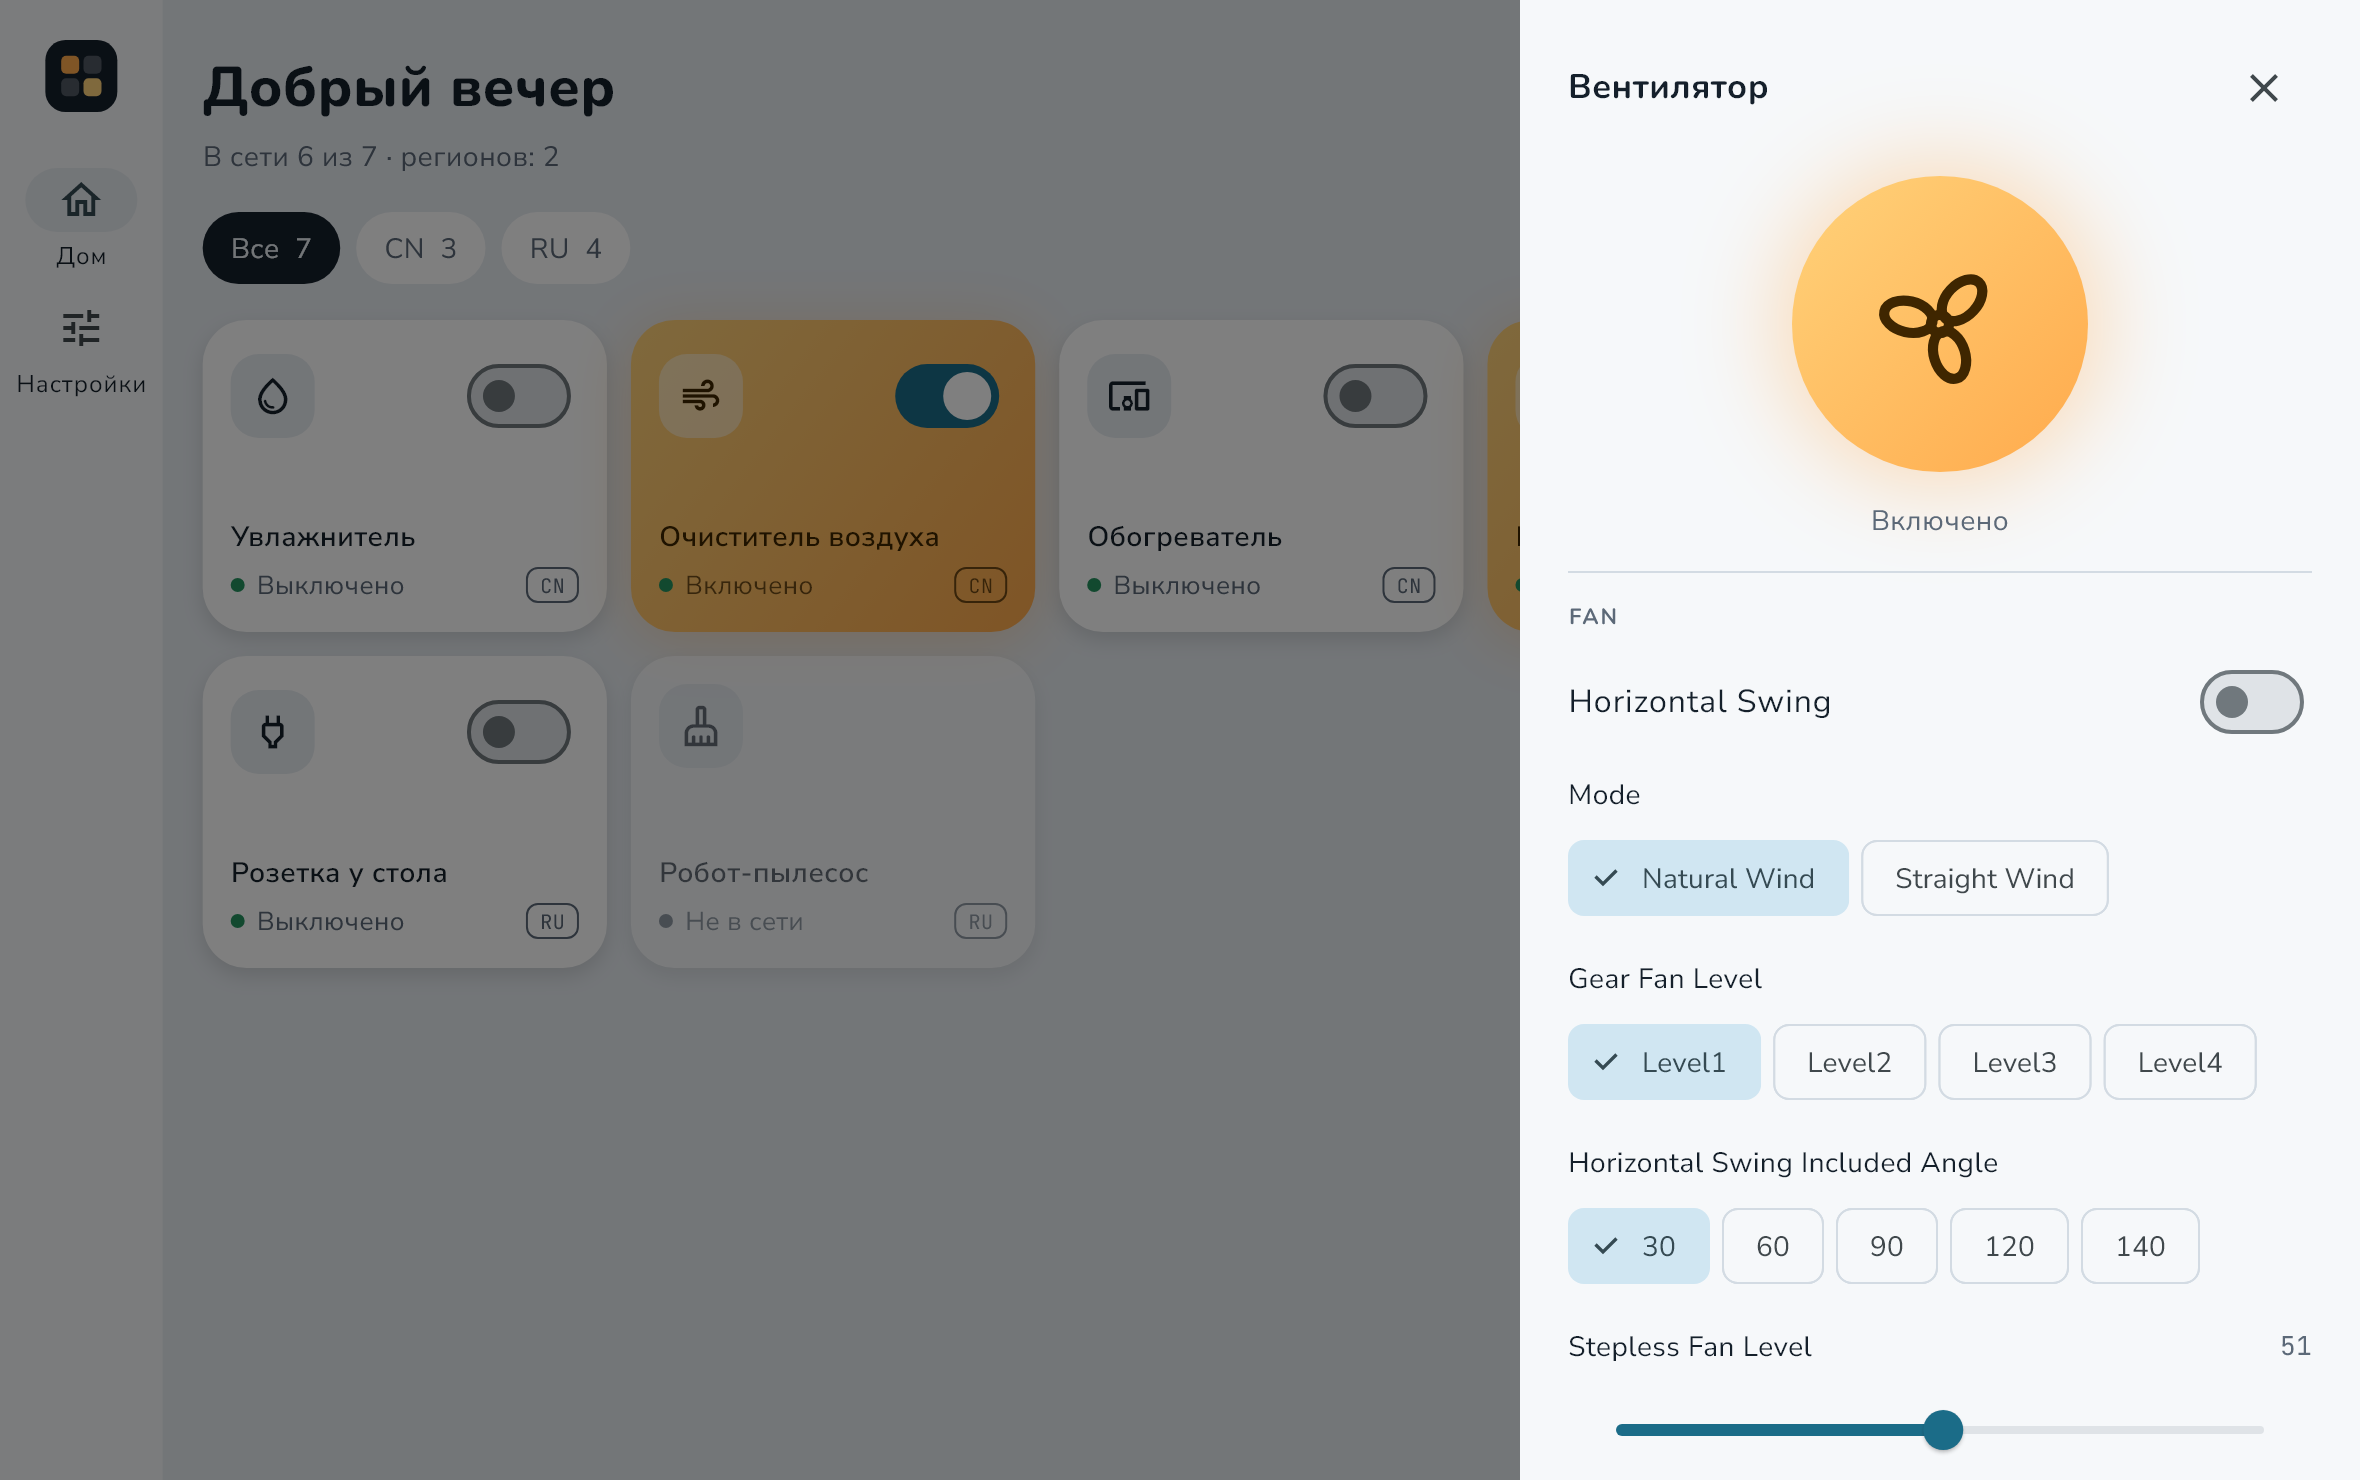
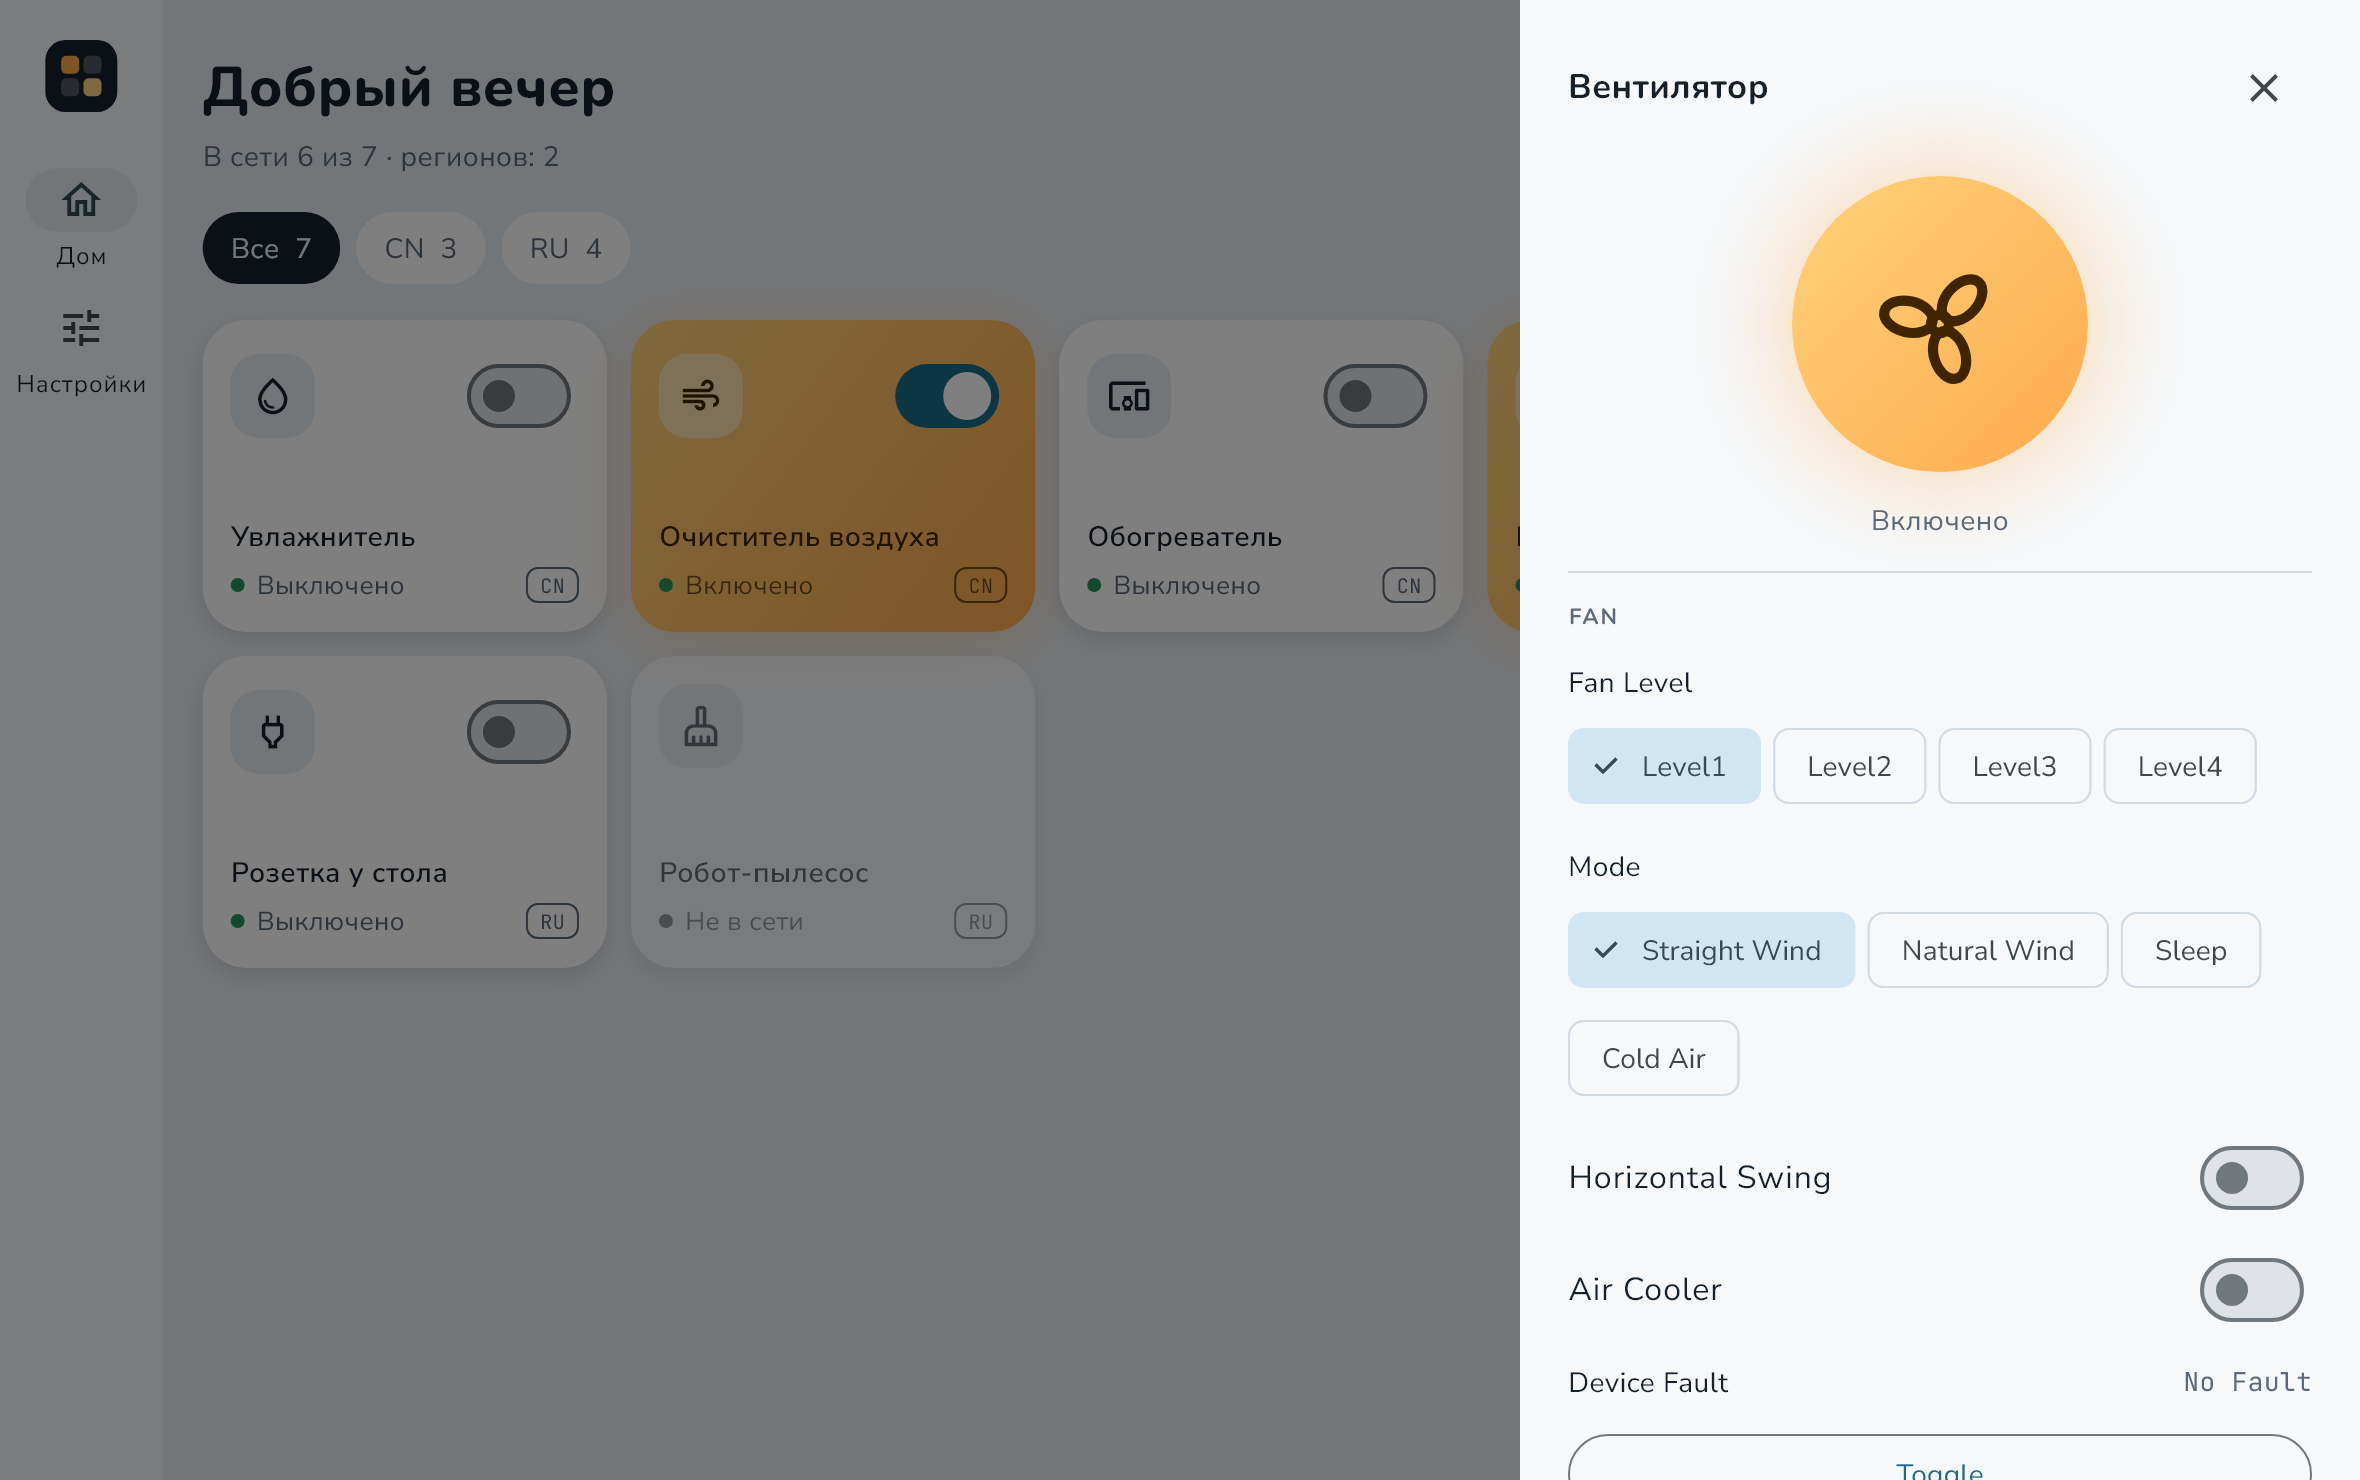
Показывать в демо вентилятор ZFSLFS01DM (dmaker.fan.p44)
- спецификация dmaker.fan.p44 — Mijia Smart Evaporative Cooling Fan —
  в образцах для тестов и скриншотов
- в демо значения из списков по умолчанию «нулевые», чтобы не показывать
  выдуманную неисправность

diff --git a/lib/demo/demo.dart b/lib/demo/demo.dart
@@ -34,7 +34,7 @@ Device _device(
 );
 
 final _devices = [
-  _device('1', 'Вентилятор', 'dmaker.fan.p5', 'ru'),
+  _device('1', 'Вентилятор', 'dmaker.fan.p44', 'ru'),
   _device('2', 'Лампа у кровати', 'yeelink.light.bslamp2', 'ru'),
   _device('3', 'Увлажнитель', 'deerma.humidifier.jsq', 'cn'),
   _device('4', 'Очиститель воздуха', 'zhimi.airp.mb4a', 'cn'),
@@ -101,7 +101,9 @@ class DemoTransport implements DeviceTransport {
 
   Object? _initialValue(MiotProperty property) {
     if (property.format == 'bool') return false;
-    if (property.values.isNotEmpty) return property.values.first.value;
+    // Ноль в списках значений обычно означает «норма»: «нет ошибки» и т. п.
+    final values = property.values.map((option) => option.value);
+    if (values.isNotEmpty) return values.contains(0) ? 0 : values.first;
     final range = property.range;
     if (range == null) return null;
     final middle = (range.min + range.max) / 2;
